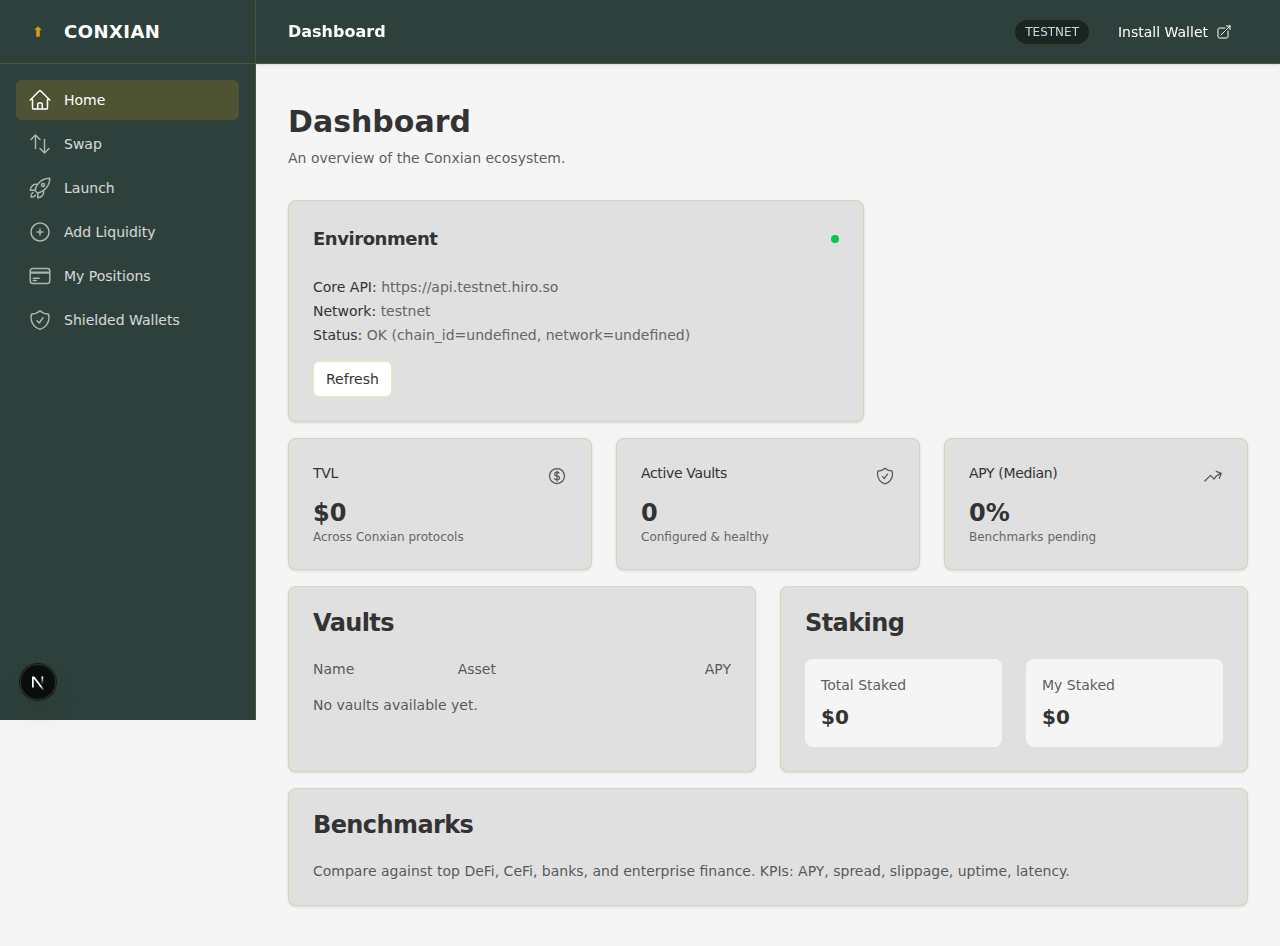
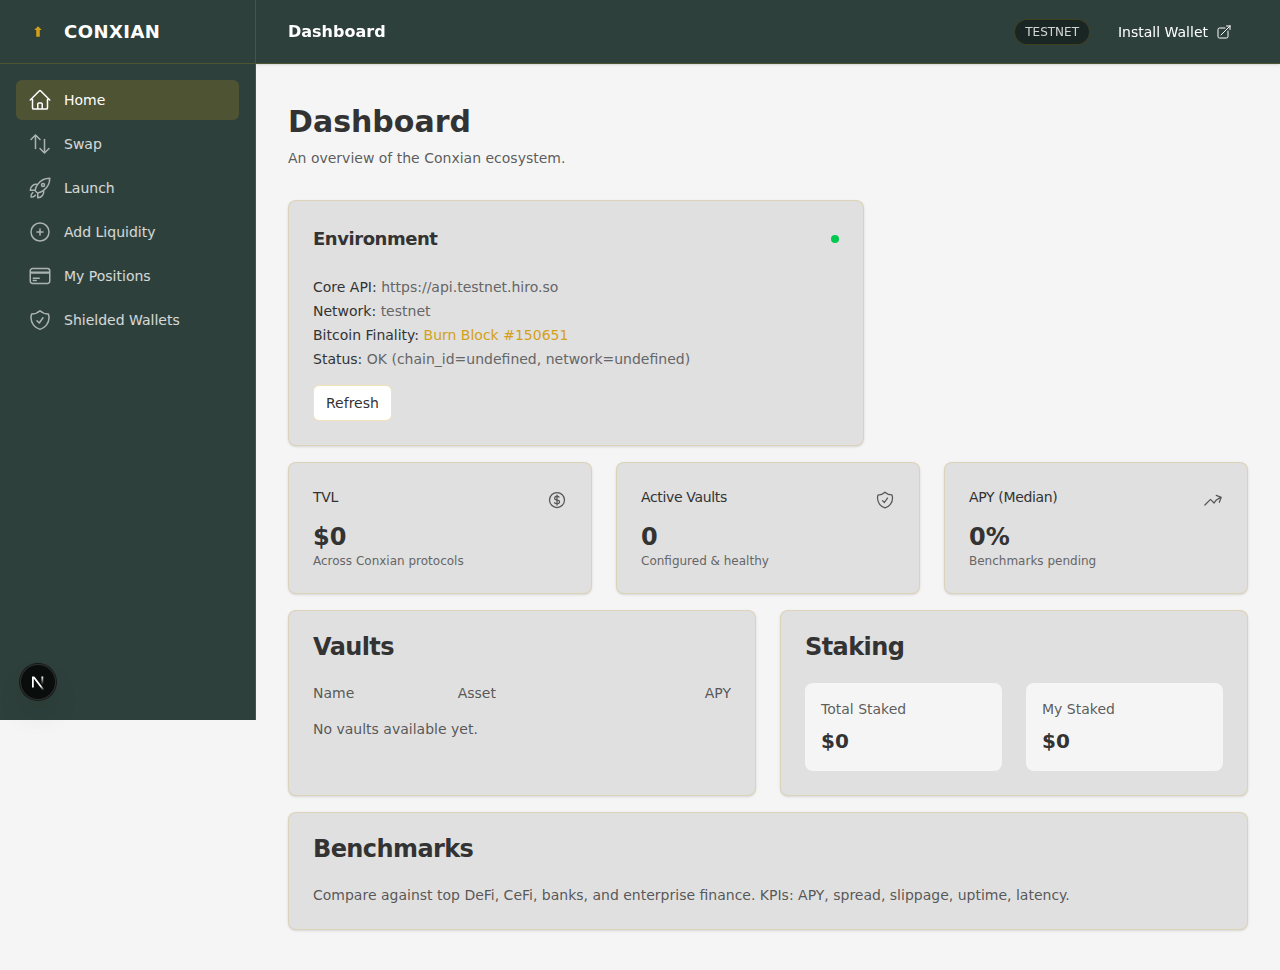
🎨 Palette: UI/UX overhaul and documentation update
- Unified design tokens across all modules to eliminate token drift.
- Standardized status and feedback colors to canonical theme values.
- Integrated "System Overview" dashboard and navigation.
- Fixed functional regressions in Environment status components.
- Updated all project documentation and visual assets.
- Transitioned developer tooling to pnpm and added automated UI audit support.

diff --git a/src/app/tx/page.tsx b/src/app/tx/page.tsx
@@ -377,7 +377,7 @@ function TxContent() {
             <select
               id="contract-select"
               aria-label="Contract"
-              className="flex h-10 w-full rounded-md border border-neutral-light bg-background-light px-3 py-2 text-sm text-text-primary focus-visible:outline-none focus-visible:ring-2 focus-visible:ring-accent focus-visible:ring-offset-2 focus-visible:ring-offset-background"
+              className="flex h-10 w-full rounded-md border border-accent/20 bg-background-light px-3 py-2 text-sm text-text-primary focus-visible:outline-none focus-visible:ring-2 focus-visible:ring-accent focus-visible:ring-offset-2 focus-visible:ring-offset-background"
               value={selected}
               onChange={(e) => setSelected(e.target.value)}
             >
@@ -399,7 +399,7 @@ function TxContent() {
               {abiFunctions.length > 0 ? (
                 <select
                   id="function-select"
-                  className="flex h-10 w-full rounded-md border border-neutral-light bg-background-light px-3 py-2 text-sm text-text-primary focus-visible:outline-none focus-visible:ring-2 focus-visible:ring-accent focus-visible:ring-offset-2 focus-visible:ring-offset-background"
+                  className="flex h-10 w-full rounded-md border border-accent/20 bg-background-light px-3 py-2 text-sm text-text-primary focus-visible:outline-none focus-visible:ring-2 focus-visible:ring-accent focus-visible:ring-offset-2 focus-visible:ring-offset-background"
                   value={fnName}
                   onChange={(e) => setFnName(e.target.value)}
                 >
@@ -451,7 +451,7 @@ function TxContent() {
               id="template-select"
               aria-label="Template"
               aria-describedby="template-help"
-              className="flex h-10 w-full rounded-md border border-neutral-light bg-background-light px-3 py-2 text-sm text-text-primary focus-visible:outline-none focus-visible:ring-2 focus-visible:ring-accent focus-visible:ring-offset-2 focus-visible:ring-offset-background"
+              className="flex h-10 w-full rounded-md border border-accent/20 bg-background-light px-3 py-2 text-sm text-text-primary focus-visible:outline-none focus-visible:ring-2 focus-visible:ring-accent focus-visible:ring-offset-2 focus-visible:ring-offset-background"
               onChange={(e) => applyTemplate(e.target.value)}
               defaultValue=""
             >

diff --git a/src/app/contracts/page.tsx b/src/app/contracts/page.tsx
@@ -69,7 +69,7 @@ export default function ContractsPage() {
           <CardContent className="text-sm space-y-2 text-text-secondary">
             <select
               aria-label="Select contract"
-              className="flex h-10 w-full rounded-md border border-neutral-light bg-background-light px-3 py-2 text-sm text-text-primary focus-visible:outline-none focus-visible:ring-2 focus-visible:ring-accent focus-visible:ring-offset-2 focus-visible:ring-offset-background"
+              className="flex h-10 w-full rounded-md border border-accent/20 bg-background-light px-3 py-2 text-sm text-text-primary focus-visible:outline-none focus-visible:ring-2 focus-visible:ring-accent focus-visible:ring-offset-2 focus-visible:ring-offset-background"
               value={`${principal}.${name}`}
               onChange={(e) => onSelect(e.target.value)}
             >
@@ -141,7 +141,7 @@ export default function ContractsPage() {
               <textarea
                 value={args}
                 onChange={(e) => setArgs(e.target.value)}
-                className="flex min-h-[80px] w-full rounded-md border border-neutral-light bg-background-light px-3 py-2 text-sm text-text-primary focus-visible:outline-none focus-visible:ring-2 focus-visible:ring-accent focus-visible:ring-offset-2 focus-visible:ring-offset-background"
+                className="flex min-h-[80px] w-full rounded-md border border-accent/20 bg-background-light px-3 py-2 text-sm text-text-primary focus-visible:outline-none focus-visible:ring-2 focus-visible:ring-accent focus-visible:ring-offset-2 focus-visible:ring-offset-background"
                 placeholder="0x0000000000000000000000000000000000000000\n0x0000000000000000000000000000000000000001"
               />
             </div>

diff --git a/src/app/router/page.tsx b/src/app/router/page.tsx
@@ -113,7 +113,7 @@ export default function RouterPage() {
             </label>
             <select
               aria-label="Router contract"
-              className="flex h-10 w-full rounded-md border border-neutral-light bg-background-light px-3 py-2 text-sm text-text-primary focus-visible:outline-none focus-visible:ring-2 focus-visible:ring-accent focus-visible:ring-offset-2 focus-visible:ring-offset-background"
+              className="flex h-10 w-full rounded-md border border-accent/20 bg-background-light px-3 py-2 text-sm text-text-primary focus-visible:outline-none focus-visible:ring-2 focus-visible:ring-accent focus-visible:ring-offset-2 focus-visible:ring-offset-background"
               value={selected}
               onChange={(e) => setSelected(e.target.value)}
             >
@@ -131,7 +131,7 @@ export default function RouterPage() {
             {fnList.length > 0 ? (
               <select
                 aria-label="Function"
-                className="flex h-10 w-full rounded-md border border-neutral-light bg-background-light px-3 py-2 text-sm text-text-primary focus-visible:outline-none focus-visible:ring-2 focus-visible:ring-accent focus-visible:ring-offset-2 focus-visible:ring-offset-background"
+                className="flex h-10 w-full rounded-md border border-accent/20 bg-background-light px-3 py-2 text-sm text-text-primary focus-visible:outline-none focus-visible:ring-2 focus-visible:ring-accent focus-visible:ring-offset-2 focus-visible:ring-offset-background"
                 value={fnName}
                 onChange={(e) => setFnName(e.target.value)}
               >

diff --git a/src/app/pools/page.tsx b/src/app/pools/page.tsx
@@ -98,7 +98,7 @@ export default function PoolsPage() {
               <label className="text-xs block mb-1 text-text-secondary">Pool Contract</label>
               <select
                 aria-label="Pool contract"
-                className="flex h-10 w-full rounded-md border border-neutral-light bg-background-light px-3 py-2 text-sm text-text-primary focus-visible:outline-none focus-visible:ring-2 focus-visible:ring-accent focus-visible:ring-offset-2 focus-visible:ring-offset-background"
+                className="flex h-10 w-full rounded-md border border-accent/20 bg-background-light px-3 py-2 text-sm text-text-primary focus-visible:outline-none focus-visible:ring-2 focus-visible:ring-accent focus-visible:ring-offset-2 focus-visible:ring-offset-background"
                 value={selected}
                 onChange={(e) => setSelected(e.target.value)}
               >

diff --git a/tests/audit_screenshots.spec.ts b/tests/audit_screenshots.spec.ts
@@ -1,0 +1,29 @@
+import { test, expect } from '@playwright/test';
+
+const routes = [
+  '/',
+  '/swap',
+  '/launch',
+  '/add-liquidity',
+  '/positions',
+  '/shielded',
+  '/overview',
+  '/pools',
+  '/contracts',
+  '/tx',
+  '/router',
+  '/network'
+];
+
+test('audit screenshots of all routes', async ({ page }) => {
+  for (const route of routes) {
+    try {
+      await page.goto(route);
+      // Wait for some content to be visible
+      await page.waitForTimeout(1000);
+      await page.screenshot({ path: `tests/screenshots/${route.replace(/\//g, '_') || 'home'}.png`, fullPage: true });
+    } catch (e) {
+      console.error(`Failed to capture screenshot for ${route}:`, e);
+    }
+  }
+});

diff --git a/src/components/ui/Toast.tsx b/src/components/ui/Toast.tsx
@@ -12,9 +12,9 @@ interface ToastProps {
 }
 
 const icons = {
-  success: <CheckCircleIcon className="w-6 h-6 text-green-400" />,
-  error: <XCircleIcon className="w-6 h-6 text-red-400" />,
-  info: <InformationCircleIcon className="w-6 h-6 text-blue-400" />,
+  success: <CheckCircleIcon className="w-6 h-6 text-green-600" />,
+  error: <XCircleIcon className="w-6 h-6 text-red-600" />,
+  info: <InformationCircleIcon className="w-6 h-6 text-blue-600" />,
 };
 
 export const Toast = ({ message, type, onClose }: ToastProps) => {

diff --git a/src/components/EnvStatus.tsx b/src/components/EnvStatus.tsx
@@ -29,10 +29,10 @@ export default function EnvStatus() {
     refresh();
   }, [refresh]);
 
-  const indicator = status?.ok ? "bg-green-500" : "bg-red-500";
+  const indicator = status?.ok ? "bg-green-600" : "bg-red-600";
 
   return (
-    <Card className="w-full max-w-xl">
+    <Card className="w-full max-w-xl bg-background-light">
       <CardHeader className="flex flex-row items-center justify-between space-y-0">
         <CardTitle className="text-lg">Environment</CardTitle>
         <span

diff --git a/src/components/ui/StatusIndicator.tsx b/src/components/ui/StatusIndicator.tsx
@@ -4,9 +4,9 @@ import { cn } from "@/lib/utils";
 type Status = "operational" | "degraded" | "outage";
 
 const statusStyles: Record<Status, string> = {
-  operational: "bg-green-500",
-  degraded: "bg-yellow-500",
-  outage: "bg-red-500",
+  operational: "bg-green-600",
+  degraded: "bg-yellow-600",
+  outage: "bg-red-600",
 };
 
 export default function StatusIndicator({ status }: { status: Status }) {

diff --git a/src/components/Sidebar.tsx b/src/components/Sidebar.tsx
@@ -22,6 +22,7 @@ const navigation = [
   { name: "Add Liquidity", href: "/add-liquidity", icon: PlusCircleIcon },
   { name: "My Positions", href: "/positions", icon: CreditCardIcon },
   { name: "Shielded Wallets", href: "/shielded", icon: ShieldCheckIcon },
+  { name: "System Overview", href: "/overview", icon: RocketLaunchIcon },
 ];
 
 export default function Sidebar() {

diff --git a/src/tests/ui.test.tsx b/src/tests/ui.test.tsx
@@ -19,6 +19,7 @@ vi.mock('@/lib/api-services', () => ({
 
 vi.mock('@/lib/coreApi', () => ({
   getStatus: vi.fn().mockResolvedValue({ ok: true }),
+  getV2Info: vi.fn().mockResolvedValue({ burn_block_height: 123456 }),
 }));
 
 // Mock the useWallet hook

diff --git a/playwright.config.ts b/playwright.config.ts
@@ -11,7 +11,7 @@ export default defineConfig({
     },
   },
   webServer: {
-    command: 'pnpm run dev -- -p 3001',
+    command: 'pnpm exec next dev -p 3001',
     url: 'http://localhost:3001',
     reuseExistingServer: true,
     timeout: 120 * 1000,

diff --git a/CONTRIBUTING.md b/CONTRIBUTING.md
@@ -12,21 +12,21 @@ We welcome contributions from the community. This guide provides all the informa
 ### Installation
 
 ```bash
-npm install
+pnpm install
 ```
 
 ### Running the Development Server
 
 ```bash
-NEXT_PUBLIC_CORE_API_URL=https://api.testnet.hiro.so npm run dev
+NEXT_PUBLIC_CORE_API_URL=https://api.testnet.hiro.so pnpm run dev
 # App will start at http://localhost:3000 (or next available port)
 ```
 
 ### Building for Production
 
 ```bash
-npm run build
-npm start
+pnpm run build
+pnpm start
 ```
 
 ## Testing
@@ -36,9 +36,21 @@ We use a combination of unit tests and end-to-end tests to ensure the quality of
 ### Running the Test Suite
 
 ```bash
-npm test        # Interactive test runner
-npm run test:run # Run tests once
-npm run test:ui  # Visual test interface
+pnpm test        # Interactive test runner
+pnpm run test:run # Run tests once
+pnpm run test:ui  # Visual test interface
+```
+
+### End-to-End Testing & UI Audit
+
+We use Playwright for E2E testing and visual verification.
+
+```bash
+# Install browsers (first time only)
+pnpm exec playwright install chromium
+
+# Run UI audit (captures screenshots of all routes)
+pnpm exec playwright test tests/audit_screenshots.spec.ts
 ```
 
 Tests cover:
